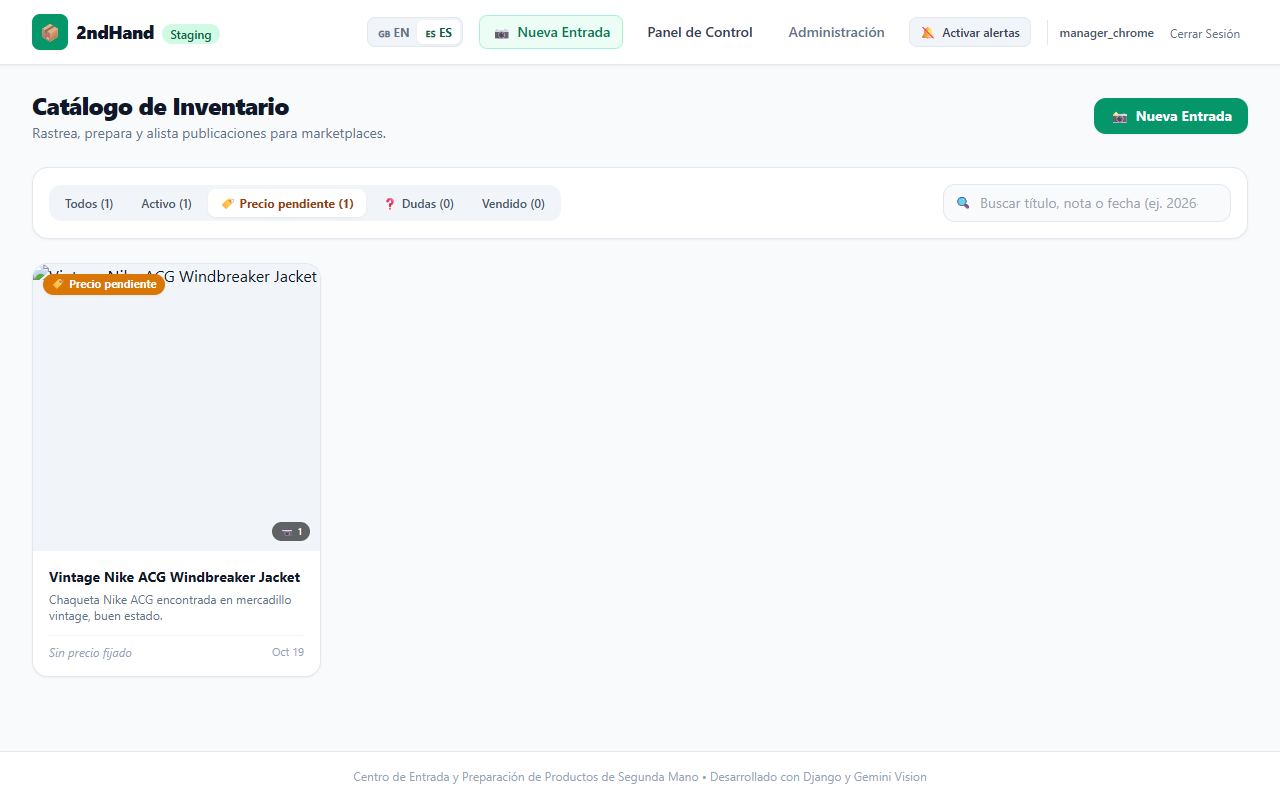
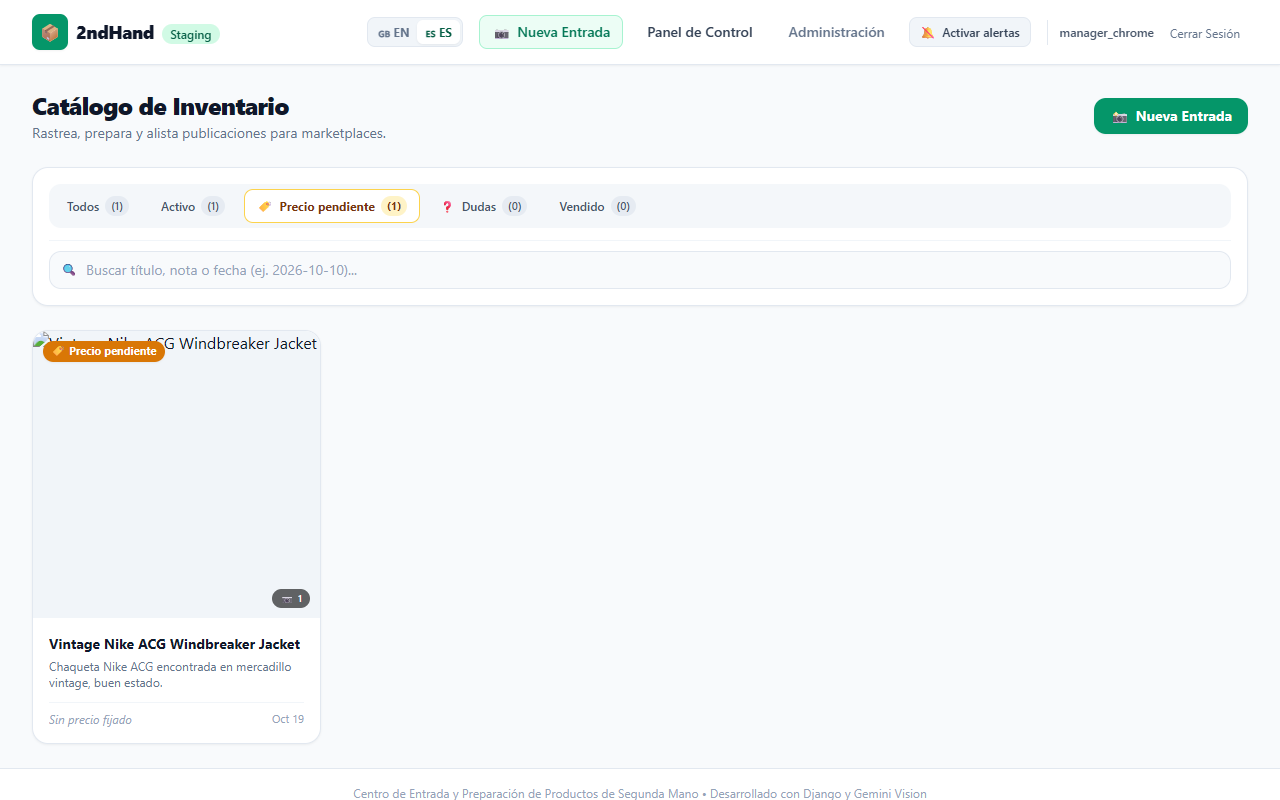
feat(dashboard): refactor status filter toolbar to horizontal segmented rail preventing apilacion

diff --git a/inventory/templates/inventory/dashboard.html b/inventory/templates/inventory/dashboard.html
@@ -20,51 +20,125 @@
     </div>
   </div>
 
-  <!-- Filters & Search Bar -->
-  <div class="bg-white p-4 rounded-2xl shadow-sm border border-slate-200 flex flex-col lg:flex-row gap-4 items-stretch lg:items-center justify-between">
+  <!-- Filters & Search Toolbar -->
+  <div class="bg-white p-3.5 sm:p-4 rounded-2xl shadow-sm border border-slate-200 space-y-3">
     
-    <!-- Status Tabs -->
-    <div class="flex flex-wrap items-center gap-1 bg-slate-100 p-1 rounded-xl w-full lg:w-auto text-xs font-semibold">
-      <a href="?status=all{% if platform_filter %}&platform={{ platform_filter }}{% endif %}{% if search_query %}&q={{ search_query|urlencode }}{% endif %}"
-         class="flex-1 lg:flex-initial text-center px-3 py-1.5 rounded-lg transition {% if status_filter == 'all' %}bg-white text-slate-900 shadow-sm{% else %}text-slate-600 hover:text-slate-900{% endif %}">
-        {% trans "All" %} ({{ total_count }})
-      </a>
-      <a href="?status=active{% if platform_filter %}&platform={{ platform_filter }}{% endif %}{% if search_query %}&q={{ search_query|urlencode }}{% endif %}"
-         class="flex-1 lg:flex-initial text-center px-3 py-1.5 rounded-lg transition {% if status_filter == 'active' %}bg-white text-emerald-700 shadow-sm{% else %}text-slate-600 hover:text-slate-900{% endif %}">
-        {% trans "Active" %} ({{ active_count }})
-      </a>
-      <a href="?status=price_pending{% if platform_filter %}&platform={{ platform_filter }}{% endif %}{% if search_query %}&q={{ search_query|urlencode }}{% endif %}"
-         class="flex-1 lg:flex-initial text-center px-3 py-1.5 rounded-lg transition {% if status_filter == 'price_pending' %}bg-white text-amber-800 shadow-sm font-bold{% else %}text-slate-600 hover:text-slate-900{% endif %}">
-        🏷 {% trans "Price Pending" %} ({{ price_pending_count }})
-      </a>
-      <a href="?status=awaiting_info{% if platform_filter %}&platform={{ platform_filter }}{% endif %}{% if search_query %}&q={{ search_query|urlencode }}{% endif %}"
-         class="flex-1 lg:flex-initial text-center px-3 py-1.5 rounded-lg transition {% if status_filter == 'awaiting_info' %}bg-white text-amber-800 shadow-sm font-bold{% else %}text-slate-600 hover:text-slate-900{% endif %}">
-        ❓ {% trans "Doubts" %} ({{ awaiting_info_count }})
-      </a>
-      <a href="?status=sold{% if platform_filter %}&platform={{ platform_filter }}{% endif %}{% if search_query %}&q={{ search_query|urlencode }}{% endif %}"
-         class="flex-1 lg:flex-initial text-center px-3 py-1.5 rounded-lg transition {% if status_filter == 'sold' %}bg-white text-slate-700 shadow-sm{% else %}text-slate-600 hover:text-slate-900{% endif %}">
-        {% trans "Sold" %} ({{ sold_count }})
-      </a>
-      {% if blocked_count > 0 or status_filter == 'blocked' %}
-      <a href="?status=blocked{% if platform_filter %}&platform={{ platform_filter }}{% endif %}{% if search_query %}&q={{ search_query|urlencode }}{% endif %}"
-         class="flex-1 lg:flex-initial text-center px-3 py-1.5 rounded-lg transition {% if status_filter == 'blocked' %}bg-white text-rose-800 shadow-sm font-bold{% else %}text-slate-600 hover:text-slate-900{% endif %}">
-        ⛔ {% trans "Blocked" %} ({{ blocked_count }})
-      </a>
-      {% endif %}
+    <!-- Status Segmented Control (Pill Rail) -->
+    <div class="relative">
+      <nav class="flex items-center gap-1.5 sm:gap-2 p-1.5 bg-slate-100/80 rounded-xl overflow-x-auto no-scrollbar overscroll-contain text-xs font-semibold"
+           aria-label="{% trans 'Filter products by status' %}"
+           role="tablist">
+        
+        <!-- All -->
+        <a href="?status=all{% if platform_filter %}&platform={{ platform_filter }}{% endif %}{% if search_query %}&q={{ search_query|urlencode }}{% endif %}"
+           role="tab"
+           aria-selected="{% if status_filter == 'all' %}true{% else %}false{% endif %}"
+           class="shrink-0 whitespace-nowrap inline-flex items-center gap-1.5 px-3 py-2 sm:py-1.5 rounded-lg transition duration-150 {% if status_filter == 'all' %}bg-white text-slate-900 shadow-xs ring-1 ring-slate-200/80 font-bold{% else %}text-slate-600 hover:text-slate-900 hover:bg-slate-200/60{% endif %}">
+          <span>{% trans "All" %}</span>
+          <span class="inline-flex items-center justify-center px-1.5 py-0.5 rounded-full text-[11px] {% if status_filter == 'all' %}bg-slate-100 text-slate-800 font-bold{% else %}bg-slate-200/80 text-slate-600{% endif %}">
+            ({{ total_count }})
+          </span>
+        </a>
+
+        <!-- Active -->
+        <a href="?status=active{% if platform_filter %}&platform={{ platform_filter }}{% endif %}{% if search_query %}&q={{ search_query|urlencode }}{% endif %}"
+           role="tab"
+           aria-selected="{% if status_filter == 'active' %}true{% else %}false{% endif %}"
+           class="shrink-0 whitespace-nowrap inline-flex items-center gap-1.5 px-3 py-2 sm:py-1.5 rounded-lg transition duration-150 {% if status_filter == 'active' %}bg-white text-emerald-800 shadow-xs ring-1 ring-emerald-200 font-bold{% else %}text-slate-600 hover:text-slate-900 hover:bg-slate-200/60{% endif %}">
+          <span>{% trans "Active" %}</span>
+          <span class="inline-flex items-center justify-center px-1.5 py-0.5 rounded-full text-[11px] {% if status_filter == 'active' %}bg-emerald-100 text-emerald-800 font-bold{% else %}bg-slate-200/80 text-slate-600{% endif %}">
+            ({{ active_count }})
+          </span>
+        </a>
+
+        <!-- Price Pending -->
+        <a href="?status=price_pending{% if platform_filter %}&platform={{ platform_filter }}{% endif %}{% if search_query %}&q={{ search_query|urlencode }}{% endif %}"
+           role="tab"
+           aria-selected="{% if status_filter == 'price_pending' %}true{% else %}false{% endif %}"
+           class="shrink-0 whitespace-nowrap inline-flex items-center gap-1.5 px-3 py-2 sm:py-1.5 rounded-lg transition duration-150 {% if status_filter == 'price_pending' %}bg-white text-amber-900 shadow-xs ring-1 ring-amber-300 font-bold{% else %}text-slate-600 hover:text-slate-900 hover:bg-slate-200/60{% endif %}">
+          <span aria-hidden="true">🏷</span>
+          <span>{% trans "Price Pending" %}</span>
+          <span class="inline-flex items-center justify-center px-1.5 py-0.5 rounded-full text-[11px] {% if status_filter == 'price_pending' %}bg-amber-100 text-amber-900 font-bold{% elif price_pending_count > 0 %}bg-amber-100 text-amber-800 font-bold{% else %}bg-slate-200/80 text-slate-600{% endif %}">
+            ({{ price_pending_count }})
+          </span>
+        </a>
+
+        <!-- Doubts -->
+        <a href="?status=awaiting_info{% if platform_filter %}&platform={{ platform_filter }}{% endif %}{% if search_query %}&q={{ search_query|urlencode }}{% endif %}"
+           role="tab"
+           aria-selected="{% if status_filter == 'awaiting_info' %}true{% else %}false{% endif %}"
+           class="shrink-0 whitespace-nowrap inline-flex items-center gap-1.5 px-3 py-2 sm:py-1.5 rounded-lg transition duration-150 {% if status_filter == 'awaiting_info' %}bg-white text-amber-900 shadow-xs ring-1 ring-amber-300 font-bold{% else %}text-slate-600 hover:text-slate-900 hover:bg-slate-200/60{% endif %}">
+          <span aria-hidden="true">❓</span>
+          <span>{% trans "Doubts" %}</span>
+          <span class="inline-flex items-center justify-center px-1.5 py-0.5 rounded-full text-[11px] {% if status_filter == 'awaiting_info' %}bg-amber-100 text-amber-900 font-bold{% elif awaiting_info_count > 0 %}bg-amber-100 text-amber-800 font-bold{% else %}bg-slate-200/80 text-slate-600{% endif %}">
+            ({{ awaiting_info_count }})
+          </span>
+        </a>
+
+        <!-- Sold -->
+        <a href="?status=sold{% if platform_filter %}&platform={{ platform_filter }}{% endif %}{% if search_query %}&q={{ search_query|urlencode }}{% endif %}"
+           role="tab"
+           aria-selected="{% if status_filter == 'sold' %}true{% else %}false{% endif %}"
+           class="shrink-0 whitespace-nowrap inline-flex items-center gap-1.5 px-3 py-2 sm:py-1.5 rounded-lg transition duration-150 {% if status_filter == 'sold' %}bg-white text-slate-900 shadow-xs ring-1 ring-slate-300 font-bold{% else %}text-slate-600 hover:text-slate-900 hover:bg-slate-200/60{% endif %}">
+          <span>{% trans "Sold" %}</span>
+          <span class="inline-flex items-center justify-center px-1.5 py-0.5 rounded-full text-[11px] {% if status_filter == 'sold' %}bg-slate-200 text-slate-800 font-bold{% else %}bg-slate-200/80 text-slate-600{% endif %}">
+            ({{ sold_count }})
+          </span>
+        </a>
+
+        <!-- Blocked -->
+        {% if blocked_count > 0 or status_filter == 'blocked' %}
+        <a href="?status=blocked{% if platform_filter %}&platform={{ platform_filter }}{% endif %}{% if search_query %}&q={{ search_query|urlencode }}{% endif %}"
+           role="tab"
+           aria-selected="{% if status_filter == 'blocked' %}true{% else %}false{% endif %}"
+           class="shrink-0 whitespace-nowrap inline-flex items-center gap-1.5 px-3 py-2 sm:py-1.5 rounded-lg transition duration-150 {% if status_filter == 'blocked' %}bg-white text-rose-900 shadow-xs ring-1 ring-rose-300 font-bold{% else %}text-slate-600 hover:text-slate-900 hover:bg-slate-200/60{% endif %}">
+          <span aria-hidden="true">⛔</span>
+          <span>{% trans "Blocked" %}</span>
+          <span class="inline-flex items-center justify-center px-1.5 py-0.5 rounded-full text-[11px] {% if status_filter == 'blocked' %}bg-rose-100 text-rose-800 font-bold{% else %}bg-rose-100 text-rose-700 font-bold{% endif %}">
+            ({{ blocked_count }})
+          </span>
+        </a>
+        {% endif %}
+
+      </nav>
     </div>
 
-    <!-- Right Controls: Platform Selector & Search Form -->
-    <div class="flex flex-col sm:flex-row items-center gap-3 w-full lg:w-auto">
-      {% if available_platforms %}
+    <!-- Secondary Filter Bar: Search & Platform Controls -->
+    <div class="flex flex-col sm:flex-row items-stretch sm:items-center gap-3 pt-2.5 border-t border-slate-100">
+      
+      <!-- Search Form -->
+      <form method="get" class="flex-1 relative" role="search">
+        {% if status_filter != 'all' %}
+        <input type="hidden" name="status" value="{{ status_filter }}">
+        {% endif %}
+        {% if platform_filter %}
+        <input type="hidden" name="platform" value="{{ platform_filter }}">
+        {% endif %}
+        <div class="relative w-full">
+          <input type="text" name="q" value="{{ search_query }}"
+                 placeholder="{% trans 'Search title, note, or date (e.g. 2026-10-10)...' %}"
+                 aria-label="{% trans 'Search products by title, note, or date' %}"
+                 class="w-full pl-9 pr-9 py-2 text-xs sm:text-sm rounded-xl border border-slate-200 bg-slate-50 focus:bg-white focus:outline-none focus:ring-2 focus:ring-emerald-500 font-normal text-slate-800 placeholder:text-slate-400 transition">
+          <span class="absolute left-3 top-2.5 text-slate-400 text-xs pointer-events-none" aria-hidden="true">🔍</span>
+          {% if search_query %}
+          <a href="?status={{ status_filter }}{% if platform_filter %}&platform={{ platform_filter }}{% endif %}"
+             class="absolute right-2.5 top-1.5 p-1 text-slate-400 hover:text-slate-600 rounded-lg hover:bg-slate-200/60 text-xs font-bold transition"
+             title="{% trans 'Clear search' %}"
+             aria-label="{% trans 'Clear search' %}">&times;</a>
+          {% endif %}
+        </div>
+      </form>
+
       <!-- Platform Selector Form -->
-      <form method="get" class="w-full sm:w-auto" id="platformFilterForm">
+      {% if available_platforms %}
+      <form method="get" class="w-full sm:w-56 shrink-0" id="platformFilterForm">
         {% if status_filter != 'all' %}
         <input type="hidden" name="status" value="{{ status_filter }}">
         {% endif %}
         {% if search_query %}
         <input type="hidden" name="q" value="{{ search_query }}">
         {% endif %}
-        <div class="relative w-full sm:w-56">
+        <div class="relative w-full">
           <select name="platform" onchange="this.form.submit()"
                   aria-label="{% trans 'Filter by marketplace platform' %}"
                   class="w-full appearance-none pl-8 pr-8 py-2 text-xs sm:text-sm rounded-xl border border-slate-200 bg-slate-50 focus:bg-white focus:outline-none focus:ring-2 focus:ring-emerald-500 font-medium text-slate-800 transition cursor-pointer">
@@ -75,30 +149,25 @@
             </option>
             {% endfor %}
           </select>
-          <span class="absolute left-2.5 top-2.5 text-slate-400 text-xs pointer-events-none">🔗</span>
-          <span class="absolute right-2.5 top-2.5 text-slate-400 text-[10px] pointer-events-none">▼</span>
+          <span class="absolute left-2.5 top-2.5 text-slate-400 text-xs pointer-events-none" aria-hidden="true">🔗</span>
+          <span class="absolute right-2.5 top-2.5 text-slate-400 text-[10px] pointer-events-none" aria-hidden="true">▼</span>
         </div>
       </form>
       {% endif %}
 
-      <!-- Search Form -->
-      <form method="get" class="w-full sm:w-72 relative">
-        {% if status_filter != 'all' %}
-        <input type="hidden" name="status" value="{{ status_filter }}">
-        {% endif %}
-        {% if platform_filter %}
-        <input type="hidden" name="platform" value="{{ platform_filter }}">
-        {% endif %}
-        <input type="text" name="q" value="{{ search_query }}"
-               placeholder="{% trans 'Search title, note, or date (e.g. 2026-10-10)...' %}"
-               class="w-full pl-9 pr-8 py-2 text-xs sm:text-sm rounded-xl border border-slate-200 bg-slate-50 focus:bg-white focus:outline-none focus:ring-2 focus:ring-emerald-500 transition">
-        <span class="absolute left-3 top-2.5 text-slate-400 text-xs pointer-events-none">🔍</span>
-        {% if search_query %}
-        <a href="?status={{ status_filter }}{% if platform_filter %}&platform={{ platform_filter }}{% endif %}"
-           class="absolute right-3 top-2 text-slate-400 hover:text-slate-600 text-xs font-bold"
-           title="{% trans 'Clear search' %}">&times;</a>
-        {% endif %}
-      </form>
+      <!-- Active Filters Reset / Clear Button -->
+      {% if search_query or platform_filter %}
+      <div class="shrink-0 flex items-center">
+        <a href="?status={{ status_filter }}"
+           class="inline-flex items-center gap-1 px-3 py-2 text-xs font-semibold text-slate-500 hover:text-rose-600 hover:bg-rose-50 rounded-xl border border-transparent hover:border-rose-100 transition"
+           title="{% trans 'Clear search' %}"
+           aria-label="{% trans 'Clear search' %}">
+          <span aria-hidden="true">&times;</span>
+          <span>{% trans "Clear search" %}</span>
+        </a>
+      </div>
+      {% endif %}
+
     </div>
 
   </div>
@@ -275,4 +344,14 @@
   {% endif %}
 
 </div>
+
+<script>
+  document.addEventListener('DOMContentLoaded', () => {
+    // Ensure active status pill is scrolled into view on mobile/narrow viewports
+    const activeTab = document.querySelector('nav[role="tablist"] a[aria-selected="true"]');
+    if (activeTab && typeof activeTab.scrollIntoView === 'function') {
+      activeTab.scrollIntoView({ behavior: 'auto', block: 'nearest', inline: 'nearest' });
+    }
+  });
+</script>
 {% endblock %}

diff --git a/inventory/templates/inventory/base.html b/inventory/templates/inventory/base.html
@@ -35,6 +35,14 @@
     body {
       -webkit-tap-highlight-color: transparent;
     }
+    /* Hide scrollbars while preserving touch, mousewheel & trackpad horizontal scroll */
+    .no-scrollbar::-webkit-scrollbar {
+      display: none;
+    }
+    .no-scrollbar {
+      -ms-overflow-style: none;
+      scrollbar-width: none;
+    }
   </style>
   {% block extra_head %}{% endblock %}
 </head>

diff --git a/tests/test_dashboard_responsive.py b/tests/test_dashboard_responsive.py
@@ -1,0 +1,145 @@
+import os
+from decimal import Decimal
+
+from django.contrib.auth import get_user_model
+from django.contrib.staticfiles.testing import StaticLiveServerTestCase
+from django.test import override_settings
+from django.urls import reverse
+from playwright.sync_api import sync_playwright
+
+from inventory.models import MarketplaceSite, Product, ProductClarification, ProductListingLink, ProductStatus
+
+User = get_user_model()
+
+
+@override_settings(TURNSTILE_ENABLED=False)
+class DashboardResponsiveUITests(StaticLiveServerTestCase):
+    """
+    Verifies that the dashboard status tabs and filter toolbar do not wrap or
+    apilar (pile up) awkwardly across standard viewports (390px, 768px, 1024px, 1440px),
+    meeting WCAG touch targets and frontend UI engineering guidelines.
+    """
+
+    @classmethod
+    def setUpClass(cls):
+        os.environ["DJANGO_ALLOW_ASYNC_UNSAFE"] = "true"
+        super().setUpClass()
+        os.makedirs("browser_verification_screenshots", exist_ok=True)
+
+    def setUp(self):
+        self.manager = User.objects.create_user(
+            username="resp_manager",
+            password="password123",
+            is_staff=True,
+        )
+        self.site_vinted, _ = MarketplaceSite.objects.get_or_create(
+            slug="vinted",
+            defaults={"name": "Vinted", "order": 1, "is_active": True},
+        )
+
+        # Create products in each distinct state so all tabs appear with counts
+        p_active = Product.objects.create(
+            ai_title="Vintage Leather Jacket",
+            sale_price=Decimal("89.99"),
+            status=ProductStatus.READY,
+            is_sold=False,
+        )
+        ProductListingLink.objects.create(
+            product=p_active,
+            site=self.site_vinted,
+            url="https://vinted.es/items/123",
+            is_active=True,
+        )
+
+        Product.objects.create(
+            ai_title="Nike Air Max Sneakers",
+            sale_price=None,
+            status=ProductStatus.PRICE_PENDING,
+            is_sold=False,
+        )
+
+        p_awaiting = Product.objects.create(
+            ai_title="Antique Porcelain Tea Set",
+            sale_price=Decimal("45.00"),
+            status=ProductStatus.AWAITING_INFO,
+            is_sold=False,
+        )
+        ProductClarification.objects.create(
+            product=p_awaiting,
+            question="Is there any crack or chip in the cups?",
+            asked_by=self.manager,
+        )
+
+        Product.objects.create(
+            ai_title="Sold Casio Vintage Watch",
+            sale_price=Decimal("25.00"),
+            status=ProductStatus.SOLD,
+            is_sold=True,
+        )
+
+        Product.objects.create(
+            ai_title="Blocked Trademark Item",
+            sale_price=Decimal("15.00"),
+            status=ProductStatus.BLOCKED,
+            is_sold=False,
+        )
+
+    def test_dashboard_responsive_tabs_no_apilation(self):
+        with sync_playwright() as p:
+            browser = p.chromium.launch(channel="chrome", headless=True)
+            context = browser.new_context()
+            page = context.new_page()
+
+            # 1. Login
+            page.goto(f"{self.live_server_url}{reverse('inventory:login')}")
+            page.fill("#id_username", "resp_manager")
+            page.fill("#id_password", "password123")
+            with page.expect_navigation():
+                page.click("#loginSubmitBtn")
+            page.wait_for_load_state("networkidle")
+
+            viewports = [
+                ("390x844_mobile", 390, 844),
+                ("768x1024_tablet", 768, 1024),
+                ("1024x768_laptop", 1024, 768),
+                ("1440x900_desktop", 1440, 900),
+            ]
+
+            for label, width, height in viewports:
+                page.set_viewport_size({"width": width, "height": height})
+                page.goto(f"{self.live_server_url}{reverse('inventory:dashboard')}")
+                page.wait_for_load_state("networkidle")
+
+                # Verify status tab rail exists
+                tablist = page.locator('nav[role="tablist"]')
+                self.assertTrue(tablist.is_visible(), f"Status tablist must be visible at {label}")
+
+                # Verify all tabs exist in the DOM
+                tabs = tablist.locator('a[role="tab"]').all()
+                self.assertGreaterEqual(len(tabs), 5, f"Expected at least 5 status tabs at {label}")
+
+                # CRITICAL VERIFICATION: No apilación / vertical stacking of tabs inside the rail
+                # All tabs inside the horizontal scroll rail must share the same top offset (within rounding tolerance)
+                box_0 = tabs[0].bounding_box()
+                self.assertIsNotNone(box_0)
+                first_top = box_0["y"]
+
+                for i, tab in enumerate(tabs):
+                    box = tab.bounding_box()
+                    self.assertIsNotNone(box)
+                    # Tolerating at most 4px difference due to subpixel rendering or border
+                    self.assertAlmostEqual(
+                        box["y"],
+                        first_top,
+                        delta=4.0,
+                        msg=f"Tab {i} at {label} is vertically stacked / apilado! box.y={box['y']} vs first_top={first_top}",
+                    )
+                    # Verify touch target height is at least 32px on desktop and >= 36px on mobile
+                    self.assertGreaterEqual(box["height"], 32.0, f"Touch target height too small at {label}")
+
+                # Take screenshot for audit trail
+                screenshot_path = f"browser_verification_screenshots/dashboard_{label}.png"
+                page.screenshot(path=screenshot_path)
+                self.assertTrue(os.path.exists(screenshot_path))
+
+            browser.close()
